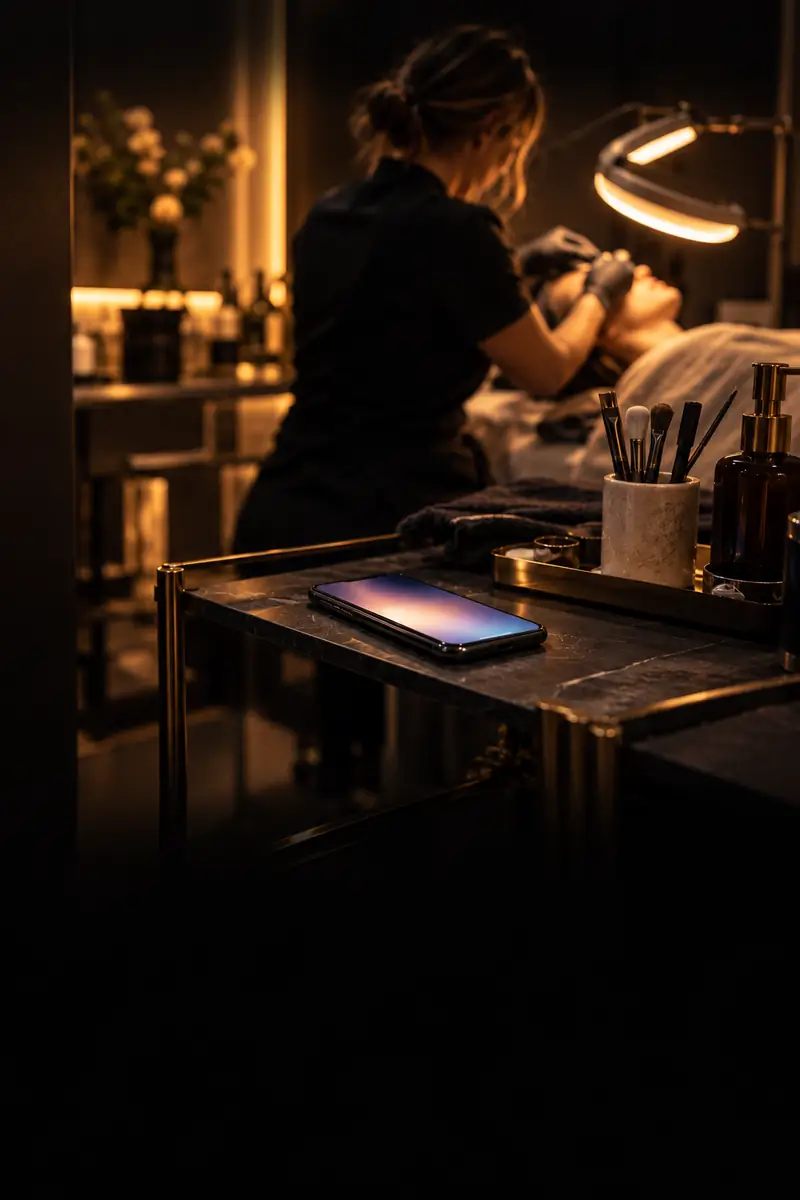
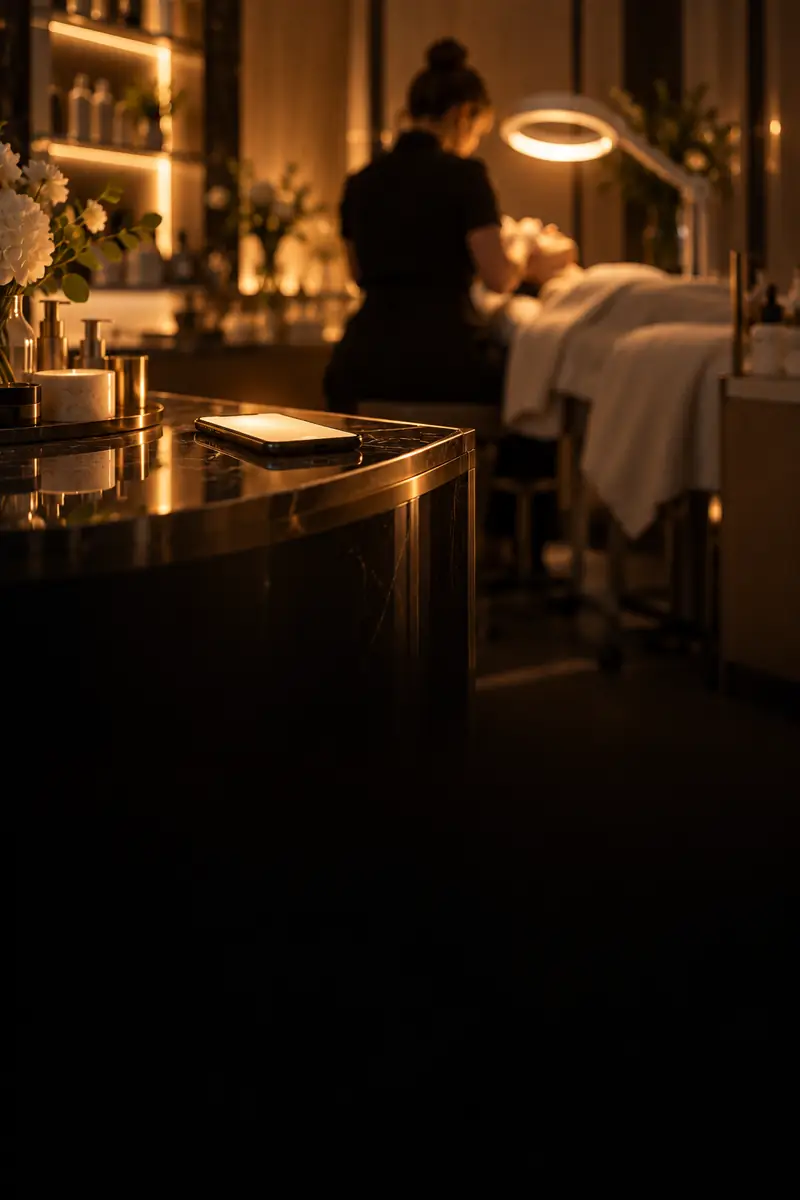
estetica movil: hero con el movil de la foto a la vista y cta con la foto arriba y el texto debajo

diff --git a/src/estetica/index.html b/src/estetica/index.html
@@ -532,7 +532,7 @@
          anclada arriba, no con cover: con cover el telefono de la foto caia a
          media pantalla, debajo del texto. Asi queda a un tercio; la foto
          acaba en negro y empalma con el fondo del hero. */
-      .hero .foto { background-image: url(/assets/cl-hero-movil.webp?v=3); background-position: center top; background-size: 100% auto; background-repeat: no-repeat; }
+      .hero .foto { background-image: url(/assets/cl-hero-movil.webp?v=4); background-position: center top; background-size: 100% auto; background-repeat: no-repeat; }
       .hero .velo { background: linear-gradient(180deg, rgba(6,5,4,.50) 0%, rgba(6,5,4,.12) 18%, rgba(6,5,4,.30) 40%, rgba(6,5,4,.85) 58%, rgba(6,5,4,.96) 100%); }
       /* En movil el texto del hero empieza hacia los 230 px y tapa el
          telefono de la foto, asi que la notificacion va en el hueco entre la
@@ -780,8 +780,12 @@
          notificacion queda justo encima del movil de la foto, que esta al
          78 % del ancho de pantalla en alto. */
       .hero .h-meta { display: none; }
-      .hero .velo { background: linear-gradient(180deg, rgba(6,5,4,.40) 0%, rgba(6,5,4,.04) 14%, rgba(6,5,4,.10) 36%, rgba(6,5,4,.86) 47%, rgba(6,5,4,.97) 100%); }
-      .h-noti { top: calc(100vw * .47); }
+      .hero .velo { background: linear-gradient(180deg, rgba(6,5,4,.40) 0%, rgba(6,5,4,.04) 12%, rgba(6,5,4,.08) 30%, rgba(6,5,4,.86) 42%, rgba(6,5,4,.97) 100%); }
+      /* Segunda vertical (07/10): el movil de la foto esta a la izquierda y
+         al 54 % del ancho de pantalla en alto. La notificacion va arriba a la
+         derecha, mas estrecha, para no taparlo. */
+      .h-noti { top: 70px; left: auto; right: 14px; transform: none; width: min(255px, 66vw); align-items: flex-end; }
+      .hn-card { font-size: 12.5px; padding: 9px 12px 10px 9px; }
       /* 04: el flujo de mensajes y agenda, mas compacto. */
       .ca-centro { zoom: .84; }
       .cf-entra { gap: 6px; }
@@ -790,11 +794,11 @@
       .cf-agenda { padding: 10px 14px 12px; }
       .cf-cita { padding: 4px 0; }
       .cf-cita div { padding: 4px 9px; }
-      /* CTA: la seccion crece por abajo para dejar ver a la duena, y el velo
-         se abre ahi. */
-      .s12 .caja { padding-bottom: 300px; }
-      .s12 .velo { background: linear-gradient(180deg, rgba(10,8,6,.97) 0%, rgba(10,8,6,.90) 42%, rgba(10,8,6,.35) 62%, rgba(10,8,6,.05) 85%, rgba(10,8,6,.25) 100%); }
-      .s12 .foto { background-position: center 70%; }
+      /* CTA como el hero de coaching: la foto de la duena arriba, a la vista,
+         y el texto debajo sobre negro. La foto ocupa los primeros 360 px. */
+      .s12 .foto { bottom: auto; height: 380px; background-image: url(/assets/cl-cta-movil.webp?v=3); background-size: cover; background-position: center 40%; }
+      .s12 .velo { background: linear-gradient(180deg, rgba(10,8,6,.15) 0px, rgba(10,8,6,0) 120px, rgba(10,8,6,.35) 270px, rgba(10,8,6,1) 380px); }
+      .s12 .caja { padding-top: 330px; }
     }
 
     /* Calendario de GHL en modal. Mismo patron que inmobiliarias y coaching. */
